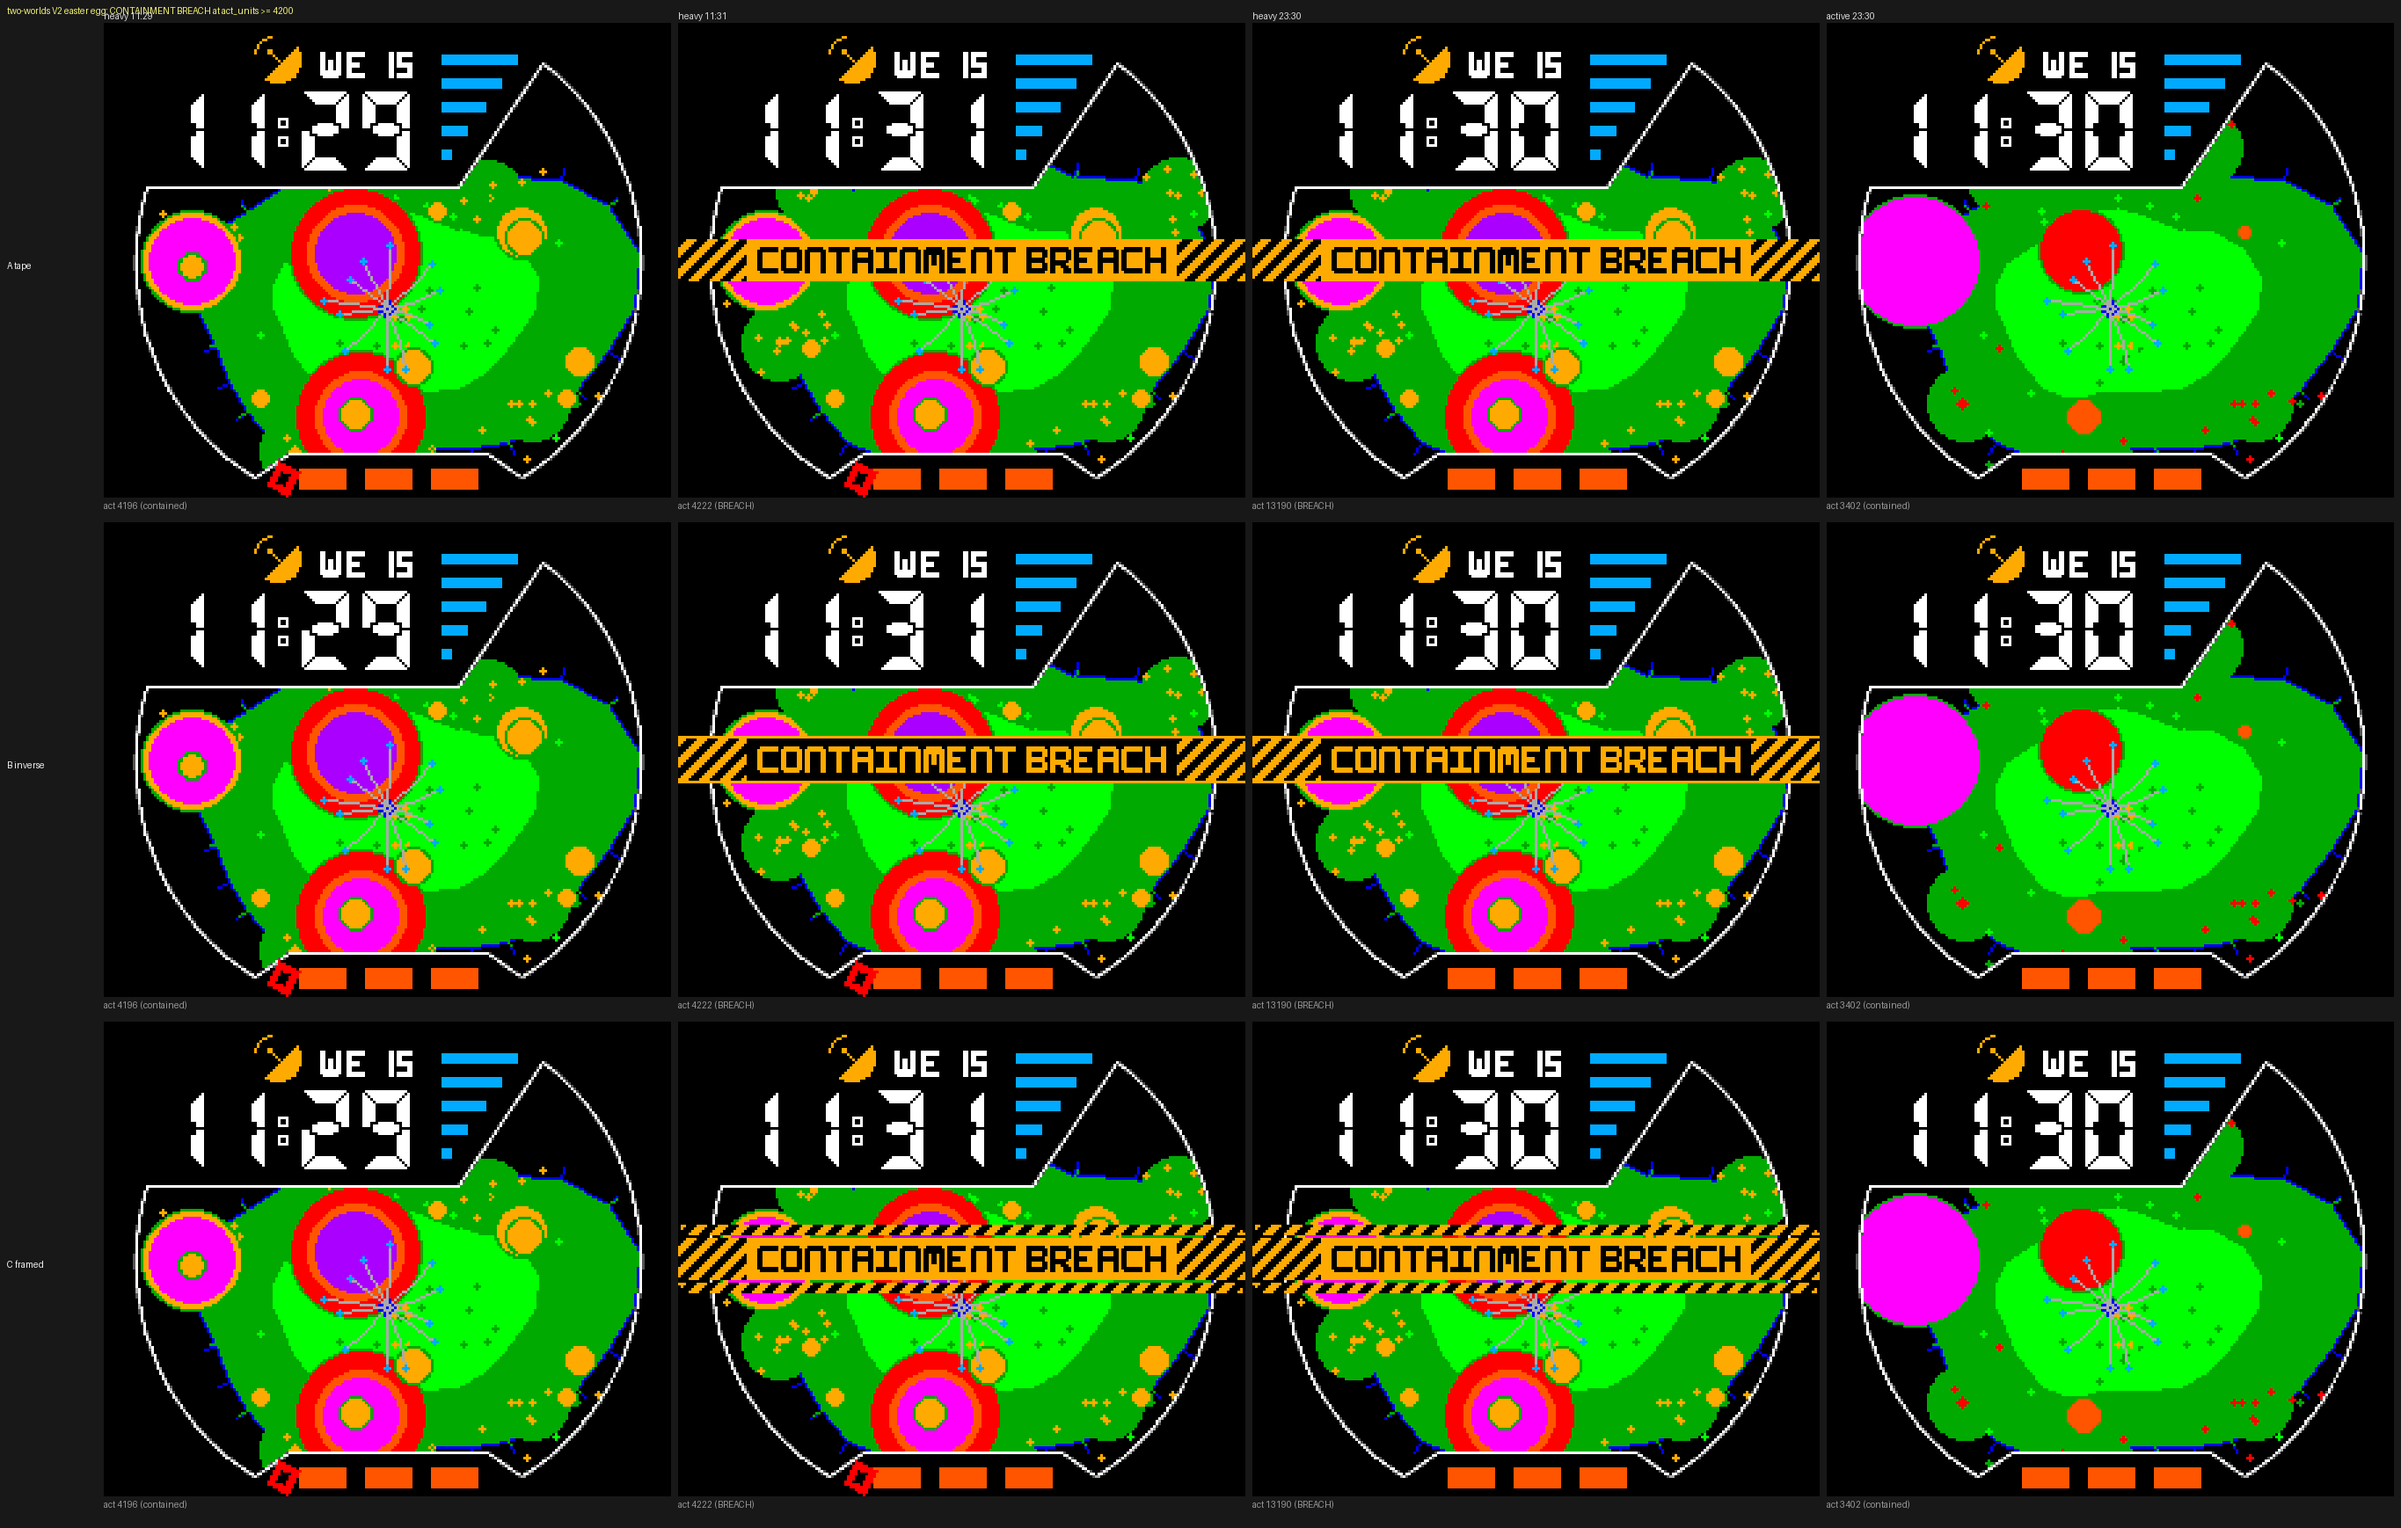
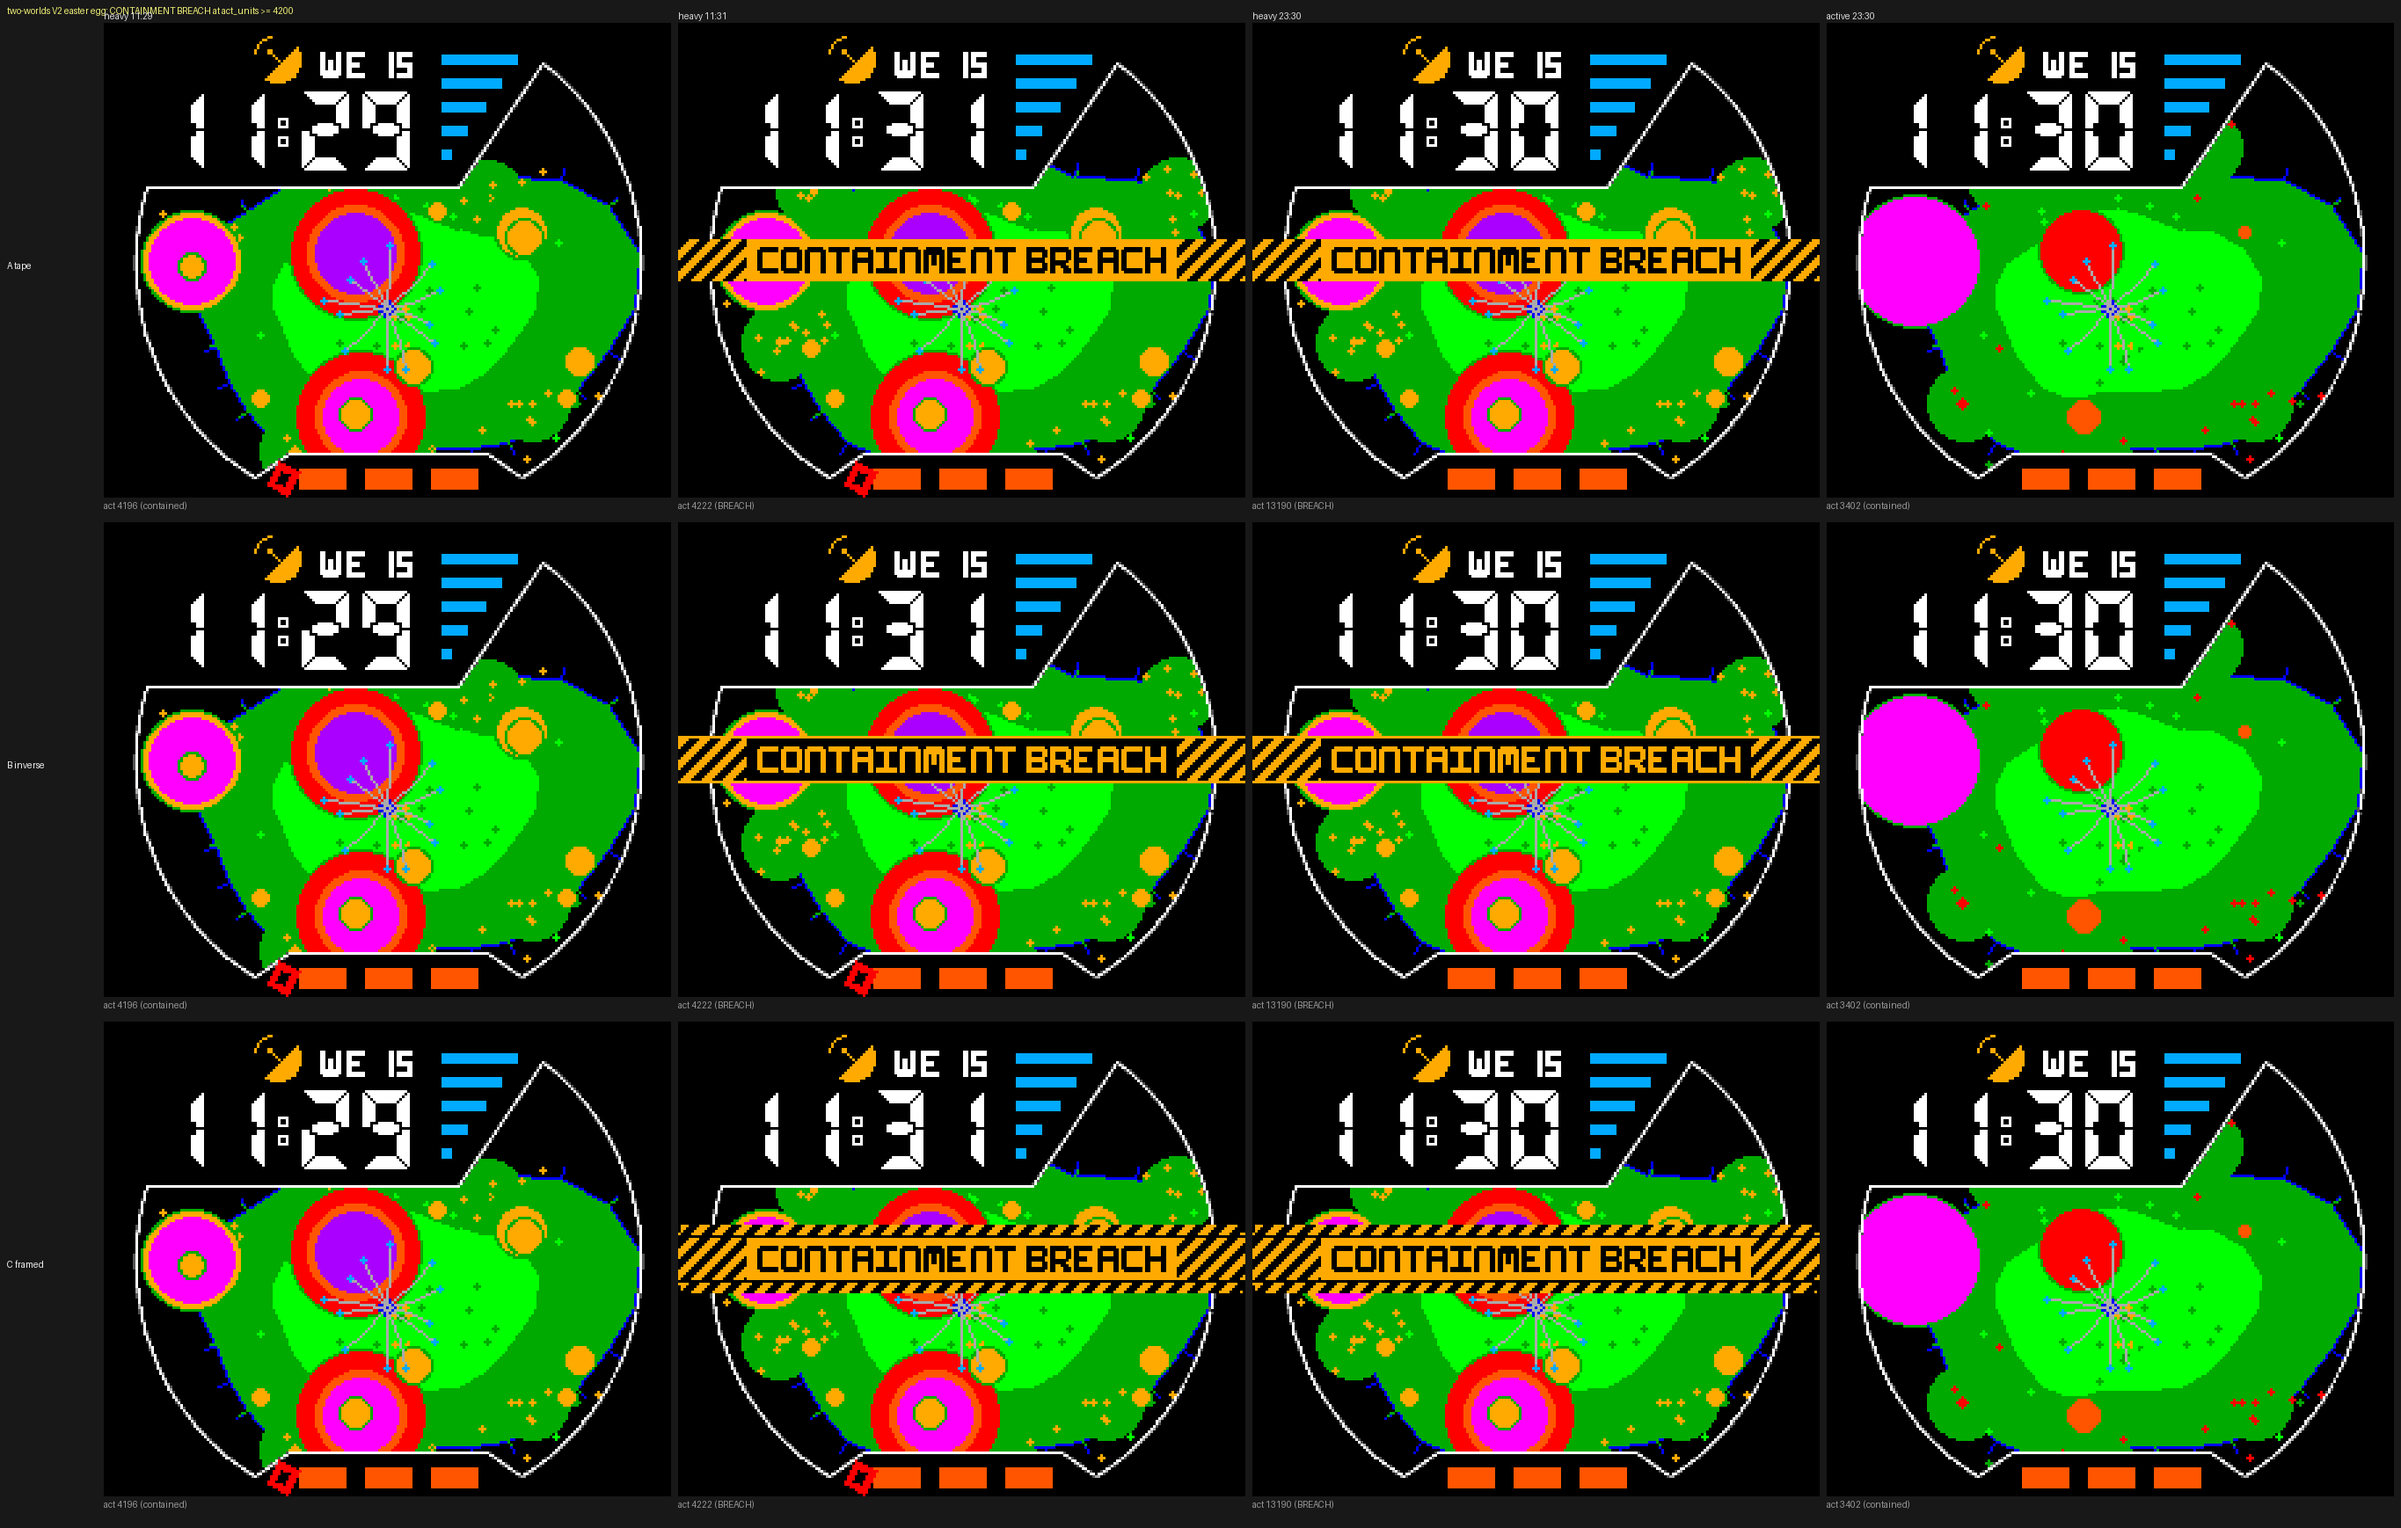
sandbox: CONTAINMENT BREACH 40% taller -- letters redrawn at 8x14
Owner: stretch the font and graphic 40% vertically without a single
transform. Every glyph redrawn at 8x14 (2 px strokes both ways, crossbars
on the centred rows, extra height in the stems -- a 1.4x resample doubles
some rows and not others); tape 16 -> 22 rows and rails 4 -> 6, still
centred on y=90; stripes keep their horizontal rhythm, so they steepen
(45 -> ~55 deg) with the same count per end. Also fills the 1 px seam that
let the moss show between style C's rails and the tape. Sandbox only.

Claude-Session: https://claude.ai/code/session_016UcnARTYVw2ygjZqsFC5qt

diff --git a/sketches/breach_compare.py b/sketches/breach_compare.py
@@ -28,6 +28,10 @@ Options (rows):
               top and bottom
   C framed    A with black/amber striped rules above and below the band
 
++40% (owner, 2026-10, "stretch 40% in Z" read as vertical): breach-tall*.png.
+Not a resample -- the letters are redrawn at 8 x 14 (TALL) and the tape /
+rails / stripes re-proportioned; see Banner.
+
     python3 sketches/breach_compare.py
 """
 import os
@@ -81,15 +85,55 @@ GLYPHS = strip_glyphs()
 GLYPHS.update(DRAWN)
 
 
-def text_bitmap(color):
+def rows(*spec):
+    """(pattern, count) runs -> glyph rows."""
+    out = []
+    for pat, n in spec:
+        out += [pat] * n
+    return out
+
+
+# 40% taller (owner, 2026-10): every letter REDRAWN at 8 x 14, not scaled --
+# a 1.4x resample of 10 rows doubles some rows and not others, so strokes go
+# uneven. Here strokes stay 2 px in both directions, crossbars sit on the
+# same centred rows 6-7, and the extra height goes into the stems.
+TALL = {
+    "C": rows((".#######", 1), ("########", 1), ("##......", 10),
+              ("########", 1), (".#######", 1)),
+    "O": rows((".######.", 1), ("########", 1), ("##....##", 10),
+              ("########", 1), (".######.", 1)),
+    "N": rows((".######.", 1), ("########", 1), ("##....##", 12)),
+    "T": rows(("########", 2), ("...##...", 12)),
+    "A": rows((".######.", 1), ("########", 1), ("##....##", 4),
+              ("########", 2), ("##....##", 6)),
+    "I": rows(("########", 2), ("...##...", 10), ("########", 2)),
+    "M": rows((".######.", 1), ("########", 2), ("##.##.##", 6),
+              ("##....##", 5)),
+    "E": rows(("#######.", 2), ("##......", 4), ("#####...", 2),
+              ("##......", 4), ("#######.", 2)),
+    "B": rows(("#######.", 1), ("########", 1), ("##....##", 4),
+              ("#######.", 2), ("##....##", 4), ("########", 1),
+              ("#######.", 1)),
+    "R": rows(("#######.", 1), ("########", 1), ("##....##", 4),
+              ("#######.", 1), ("######..", 1), ("##.###..", 1),
+              ("##..###.", 2), ("##...###", 2), ("##....##", 1)),
+    "H": rows(("##....##", 6), ("########", 2), ("##....##", 6)),
+}
+assert all(len(g) == 14 and all(len(r) == 8 for r in g)
+           for g in TALL.values()), "tall glyphs must be 8 x 14"
+
+
+def text_bitmap(color, glyphs=None):
     """TEXT as one RGBA bitmap (glyph pixels = color, rest transparent) --
     exactly what would ship as a resource PNG."""
+    glyphs = glyphs or GLYPHS
+    gh = len(glyphs["C"])
     w = 0
     for i, ch in enumerate(TEXT):
         w += SPACE if ch == " " else 8
         if i < len(TEXT) - 1 and ch != " " and TEXT[i + 1] != " ":
             w += GAP
-    img = Image.new("RGBA", (w, 10), (0, 0, 0, 0))
+    img = Image.new("RGBA", (w, gh), (0, 0, 0, 0))
     px = img.load()
     rgb = device._rgb(color) + (255,)
     x = 0
@@ -97,7 +141,7 @@ def text_bitmap(color):
         if ch == " ":
             x += SPACE
             continue
-        for y, row in enumerate(GLYPHS[ch]):
+        for y, row in enumerate(glyphs[ch]):
             for dx, c in enumerate(row):
                 if c == "#":
                     px[x + dx, y] = rgb
@@ -114,28 +158,42 @@ PITCH, SW = 8, 4           # stripe pitch / width (px)
 
 
 class Banner:
-    def __init__(self, style):
+    """tall=False: the 10 px original (band 16, rails 4, 45-degree stripes).
+    tall=True: the 40%-taller redraw -- 14 px letters, band 22 (16 x 1.4),
+    rails 6 (4 x 1.4, rounded), still centred on y = 90. The stripes keep
+    their horizontal rhythm (width 4, pitch 8, run 15) -- a vertical stretch
+    changes no x -- so they just steepen (45 -> ~55 degrees) and each end of
+    the tape keeps the same stripe count."""
+
+    def __init__(self, style, tall=False):
         self.style = style
         fg = COLOR_BLACK if style in ("A", "C") else COLOR_YELLOW
-        self.text = text_bitmap(fg)
+        self.text = text_bitmap(fg, TALL if tall else None)
+        self.bh = 22 if tall else BH
+        self.rail = 6 if tall else 4
+        self.y0 = 90 - self.bh // 2
+        self.run = BH - 1                   # stripe x-run, shared by both
         self.tx = (device.W - self.text.width) // 2
-        self.ty = Y0 + (BH - 10) // 2
+        self.ty = self.y0 + (self.bh - self.text.height) // 2
 
-    def stripes(self, dc, y0, h, col):
-        """45-degree '/' stripes across the full width, rows y0..y0+h-1."""
+    def stripes(self, dc, y0, h, col, run=None):
+        """'/' stripes across the full width, rows y0..y0+h-1, rising `run`
+        px over the band (run = h - 1 is 45 degrees)."""
+        run = h - 1 if run is None else run
         dc.setColor(col, COLOR_TRANSPARENT)
-        for x in range(-h, device.W + PITCH, PITCH):
+        for x in range(-run, device.W + PITCH, PITCH):
             dc.fillPolygon([(x, y0 + h - 1), (x + SW - 1, y0 + h - 1),
-                            (x + SW - 1 + h - 1, y0), (x + h - 1, y0)])
+                            (x + SW - 1 + run, y0), (x + run, y0)])
 
     def render(self, dc, state):
         if state.breach is not True:
             return
+        Y0, BH = self.y0, self.bh
         bg = COLOR_YELLOW if self.style in ("A", "C") else COLOR_BLACK
         fg = COLOR_BLACK if self.style in ("A", "C") else COLOR_YELLOW
         dc.setColor(bg, COLOR_TRANSPARENT)
         dc.fillRectangle(0, Y0, device.W, BH)
-        self.stripes(dc, Y0, BH, fg)
+        self.stripes(dc, Y0, BH, fg, self.run)
         dc.setColor(bg, COLOR_TRANSPARENT)                 # text window
         dc.fillRectangle(self.tx - 4, Y0, self.text.width + 8, BH)
         dc.drawBitmap(self.tx, self.ty, self.text)
@@ -144,11 +202,12 @@ class Banner:
             dc.fillRectangle(0, Y0 - 1, device.W, 1)
             dc.fillRectangle(0, Y0 + BH, device.W, 1)
         if self.style == "C":
-            dc.setColor(COLOR_BLACK, COLOR_TRANSPARENT)
-            dc.fillRectangle(0, Y0 - 5, device.W, 4)
-            dc.fillRectangle(0, Y0 + BH + 1, device.W, 4)
-            self.stripes(dc, Y0 - 5, 4, COLOR_YELLOW)
-            self.stripes(dc, Y0 + BH + 1, 4, COLOR_YELLOW)
+            r = self.rail
+            dc.setColor(COLOR_BLACK, COLOR_TRANSPARENT)   # rail + 1 px seam
+            dc.fillRectangle(0, Y0 - r - 1, device.W, r + 1)
+            dc.fillRectangle(0, Y0 + BH, device.W, r + 1)
+            self.stripes(dc, Y0 - r - 1, r, COLOR_YELLOW)
+            self.stripes(dc, Y0 + BH + 1, r, COLOR_YELLOW)
 
 
 OPTIONS = [("A tape", Banner("A")), ("B inverse", Banner("B")),
@@ -210,5 +269,42 @@ def main():
           "CONTAINMENT BREACH banner close-up")
 
 
+TALL_OPTIONS = [("A tape", Banner("A")), ("A tape +40%", Banner("A", True)),
+                ("B inverse +40%", Banner("B", True)),
+                ("C framed +40%", Banner("C", True))]
+
+
+def tall_sheets():
+    days = {p: synthetic_day(profile=p) for p in ("active", "heavy")}
+    cols = [("heavy", "11:31"), ("heavy", "23:30")]
+    groves = {}
+    for prof, at in cols:
+        t = mins(at)
+        g = load_algo("moss_grove").build()["components"][0]
+        for m in range(t + 1):
+            g.advance(days[prof][m])
+        groves[(prof, at)] = (g, days[prof][t], t)
+    rows_, z = [], []
+    for label, banner in TALL_OPTIONS:
+        cells = []
+        for prof, at in cols:
+            g, snap, t = groves[(prof, at)]
+            img, _ = face(banner, g, snap, t)
+            cells.append((img.resize((device.W * 3, device.H * 3),
+                                     Image.NEAREST), ""))
+        rows_.append((label, cells))
+        g, snap, t = groves[("heavy", "23:30")]
+        img, _ = face(banner, g, snap, t)
+        crop = img.crop((0, 66, device.W, 114))
+        z.append((label, [(crop.resize((crop.width * 5, crop.height * 5),
+                                        Image.NEAREST), "")]))
+    sheet(rows_, ["{} {}".format(p, a) for p, a in cols],
+          os.path.join(OUT, "breach-tall.png"),
+          "CONTAINMENT BREACH, 40% taller (letters redrawn at 8x14)")
+    sheet(z, ["banner, 5x"], os.path.join(OUT, "breach-tall-zoom.png"),
+          "CONTAINMENT BREACH +40%: original vs redrawn")
+
+
 if __name__ == "__main__":
     main()
+    tall_sheets()
